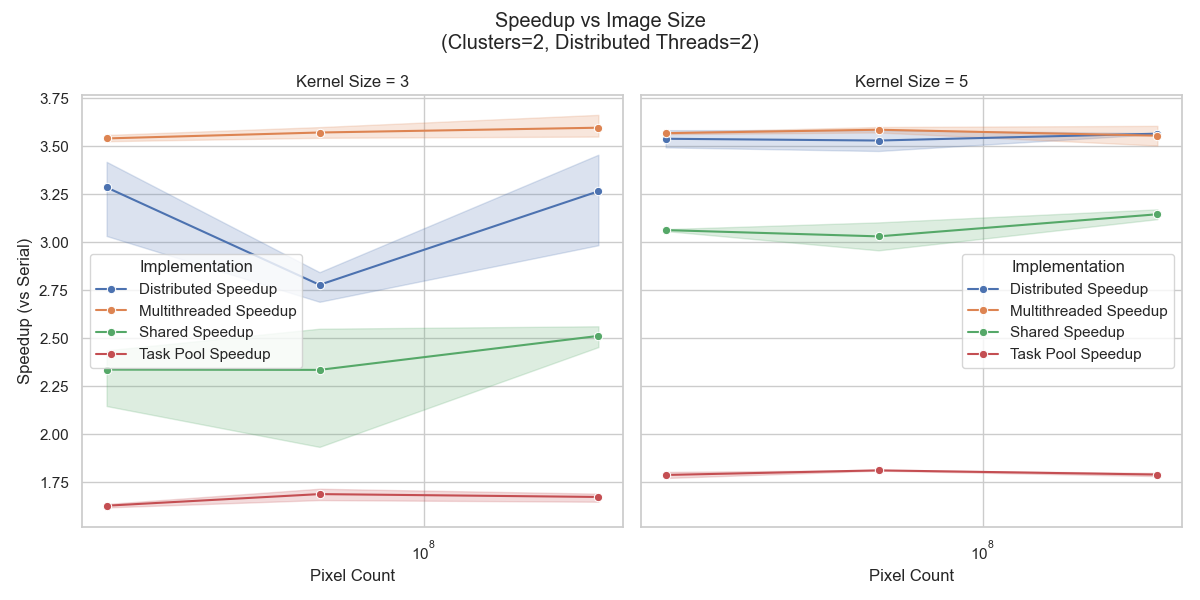
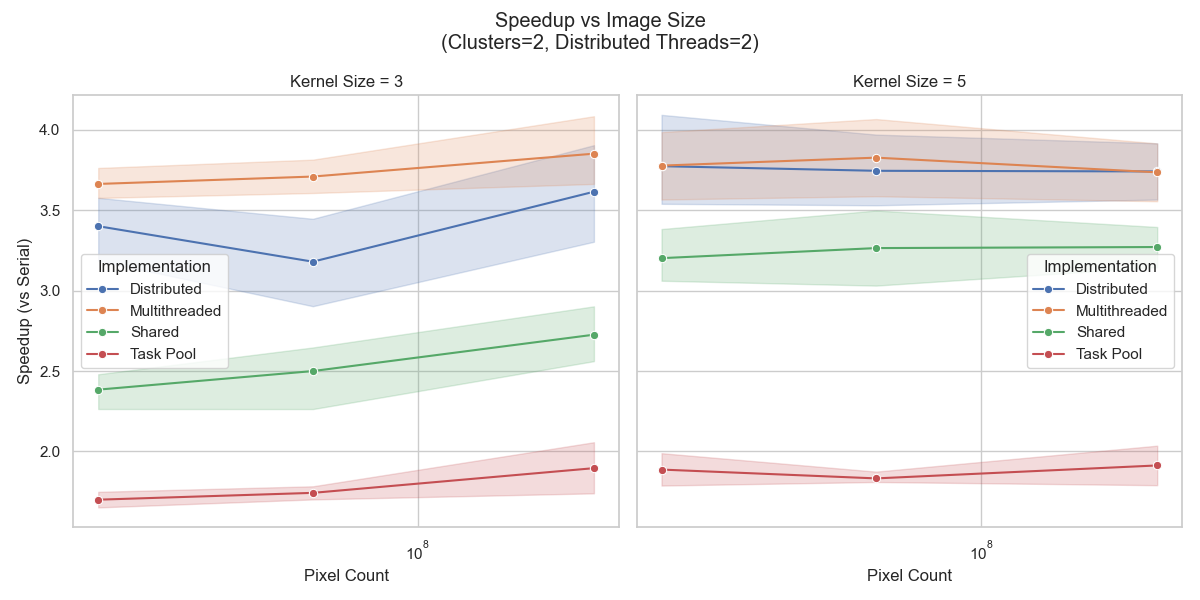
Add benchmark data, refresh plots and docs
Append new benchmark measurements to data/chrono/speedups_data.csv and data/chrono/time_data.csv (additional image sizes, thread/cluster configurations). Regenerate visualization outputs (multiple data/plots/*.png updated) and update visualization artifacts (__pycache__ .pyc files). Minor docs/formatting tweaks in README.md and visualization/README.md (code fence language, small spacing/line changes). Reorder imports in visualization/data.py.

diff --git a/visualization/data.py b/visualization/data.py
@@ -1,5 +1,5 @@
-import pandas as pd
 import os
+import pandas as pd
 
 
 def load_data(filepath: str) -> pd.DataFrame:

diff --git a/README.md b/README.md
@@ -18,6 +18,7 @@ The primary goal of this project is to demonstrate and benchmark high-performanc
 Convolution is a mathematical operation fundamental to many image processing techniques. It involves sliding a small matrix (the kernel) over the image pixels to calculate new pixel values based on their neighbors. This operation is computationally intensive and highly parallelizable, making it an excellent candidate for performance optimization studies.
 
 This project implements several standard kernels:
+
 *   **Ridge Detection**: Highlights significant changes in intensity.
 *   **Edge Detection**: Identifies boundaries within the image.
 *   **Sharpen**: Enhances the contrast of edges.
@@ -34,7 +35,7 @@ This project implements several standard kernels:
 
 ## Project Structure
 
-```
+```md
 ├── images          # Input and output directory for BMP images
 │   ├── base        # Place input BMP files here
 │   └── [kernel]    # Output directories (automatically created)
@@ -141,6 +142,7 @@ You can run the benchmark binary directly to control which modes are executed.
 ```
 
 **Flags:**
+
 *   `--threads <n>`      : Set number of OpenMP threads
 *   `--serial`           : Run Serial benchmark (required for verification)
 *   `--multithreaded`    : Run Parallel Multithreaded benchmark
@@ -171,12 +173,15 @@ mpirun -n 4 build/mpi_omp_convolution --threads 4 --all
 You can configure the optimization flags and the number of processes/threads directly in `meson.build`.
 
 ### Optimization Flags
+
 The project is configured with aggressive optimization by default:
+
 ```meson
 add_project_arguments('-O3', '-march=native', language : 'c')
 ```
 
 ### Process & Thread Counts
+
 To change the number of MPI processes or OpenMP threads used by the run targets, edit the variables at the top of `meson.build`:
 
 ```meson
@@ -221,6 +226,7 @@ uv run main.py --data ../data/chrono/speedups_data.csv --output ../data/plots
 ```
 
 **Arguments:**
+
 - `--data`: Path to the input CSV file (default: `../data/chrono/speedups_data.csv`)
 - `--output`: Directory to save the plots (default: `../data/plots`)
 
@@ -231,8 +237,6 @@ The script generates the following types of plots in the output directory:
 | specific configuration | Plot Type             | Description                                  |
 | ---------------------- | --------------------- | -------------------------------------------- |
 | `speedup_size_*.png`   | Speedup vs Image Size | Performance scaling with increasing workload |
-| `scaling_threads.png`  | Speedup vs Threads    | Strong scaling within a single node (OpenMP) |
-| `scaling_clusters.png` | Speedup vs Clusters   | Strong scaling across nodes (MPI)            |
 | `efficiency.png`       | Parallel Efficiency   | Speedup per core vs Total Cores              |
 
 ## Cleaning
@@ -244,6 +248,7 @@ meson compile --clean -C build
 ```
 
 Or simply remove the build directory and re-setup if you want a fresh start:
+
 ```bash
 rm -rf build
 meson setup build

diff --git a/visualization/README.md b/visualization/README.md
@@ -21,6 +21,7 @@ uv run main.py
 ```
 
 Arguments:
+
 - `--data`: Path to the input CSV file (default: `../data/chrono/speedups_data.csv`)
 - `--output`: Directory to save the plots (default: `plots`)
 
@@ -31,6 +32,4 @@ The script generates the following types of plots in the output directory:
 | specific configuration | Plot Type             | Description                                  |
 | ---------------------- | --------------------- | -------------------------------------------- |
 | `speedup_size_*.png`   | Speedup vs Image Size | Performance scaling with increasing workload |
-| `scaling_threads.png`  | Speedup vs Threads    | Strong scaling within a single node (OpenMP) |
-| `scaling_clusters.png` | Speedup vs Clusters   | Strong scaling across nodes (MPI)            |
 | `efficiency.png`       | Parallel Efficiency   | Speedup per core vs Total Cores              |
